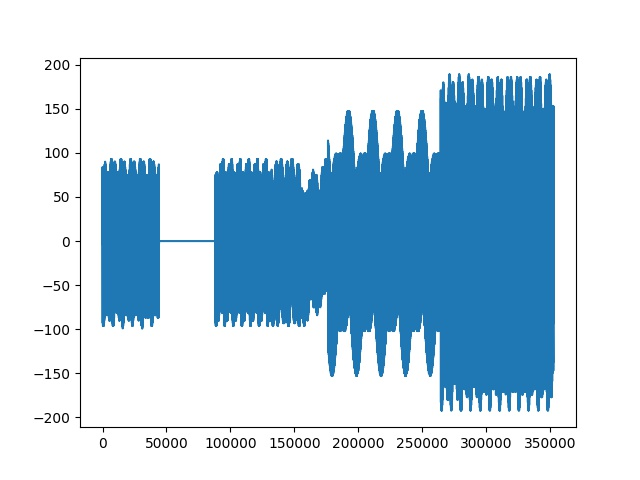
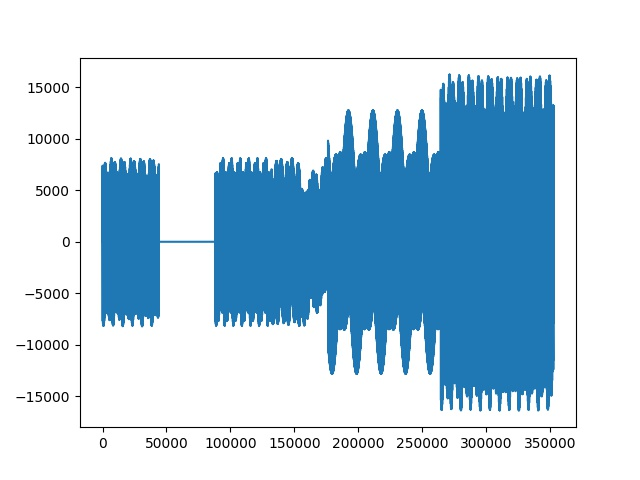
Updated dither code

diff --git a/FinalProject/Engine/AudioCore.py b/FinalProject/Engine/AudioCore.py
@@ -3,10 +3,8 @@ import numpy as np
 from dataclasses import dataclass, field
 from music21 import converter
 import matplotlib.pyplot as plt
-import soundfile as sf
-from soundfile import SoundFile, write
+from soundfile import write
 from subtypes import Subtype
-import scipy
 from scipy.interpolate import interp1d
 from scipy import signal
 
@@ -120,16 +118,27 @@ class Downsampler:
         return self.cubic_interpolate(data, t, new_samples)
 
     # add_dither: function to generate and add noise to the original signal and return the noise added signal
-    def add_dither(self, original):
-        noise = np.random.normal(0, .01, original.shape)  # generate noise with mean = 0 and standard dev = 0.01
-        new_signal = original + noise  # add noise to the signal to generate signal with added dither
-        return new_signal 
+    # def add_dither(self, original):
+    #     noise = np.random.normal(0, .01, original.shape)  # generate noise with mean = 0 and standard dev = 0.01
+    #     new_signal = original + noise  # add noise to the signal to generate signal with added dither
+    #     return new_signal
+
+    def add_dither(self, original, original_br, new_br):
+        shape = new_br - 4  # calculate the noise shape based on the difference between original and new bitrate.
+        noise = np.random.normal(0, 2**shape, original.shape)  # generate noise with mean = 0 and standard dev = 0.01
+
+        maxval = np.max(np.abs(noise))
+        bitlength = np.ceil(np.log2(maxval)).astype(int)
+
+        # add noise to the signal to generate signal with added dither)
+        new_signal = original + noise
+        return new_signal
 
     # down_quantization: function to perform dithering and return the down-quantized signal
     def down_quantization(self, original, original_br, new_br):
         # Because our signal started the downsampling chain as an int32, we can recast it as an int32 before doing
         # further processing.
-        dithered = self.add_dither(original)
+        dithered = self.add_dither(original, original_br, new_br)
         dithered = dithered.astype(np.int32)
 
         maxval = np.max(np.abs(dithered))
@@ -147,7 +156,7 @@ class Downsampler:
             down_quantized = (dithered >> bit_shift)
 
             # Because of the power loss with the drop to 16 bits the amplitude needs to be doubled.
-            down_quantized *= 3
+            # down_quantized *= 3
 
             # Because of limitations in scipy's wave writing function, we need to encode this as a 16 bit integer.
             # However, the commented code reveals that only 8 bits are needed to encode the data.

diff --git a/FinalProject/finalsynth.py b/FinalProject/finalsynth.py
@@ -9,14 +9,12 @@ import numpy as np
 from math import ceil
 from Engine.AudioCore import Notes, Downsampler
 from Engine.Synth import AdditiveSynth, WavetableSynth
+from Effects.Convolution import Reverb
+from Effects.Filter import Bandpass, Lowpass
+from Effects.Modulation import Chorus, Delay, Vibrato
 from scipy.io.wavfile import read, write
 import matplotlib.pyplot as plt
 
-
-# from FinalProject.Effects.Convolution import Reverb
-# from FinalProject.Effects.Filter import Bandpass, Lowpass
-# from FinalProject.Effects.Modulation import Chorus, Delay, Vibrato
-# from FinalProject.Engine.Synth import AdditiveSynth, WavetableSynth
 
 # This is the parser that will parse commandline arguments.
 parser = argparse.ArgumentParser()
